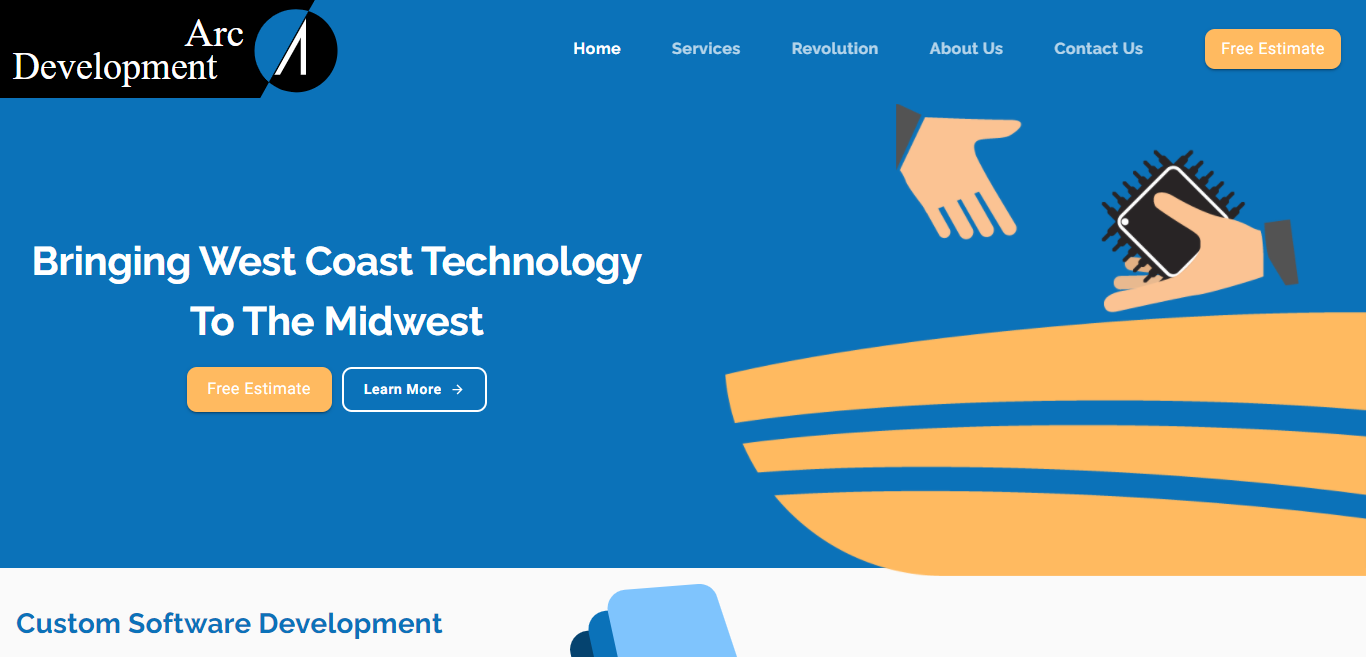
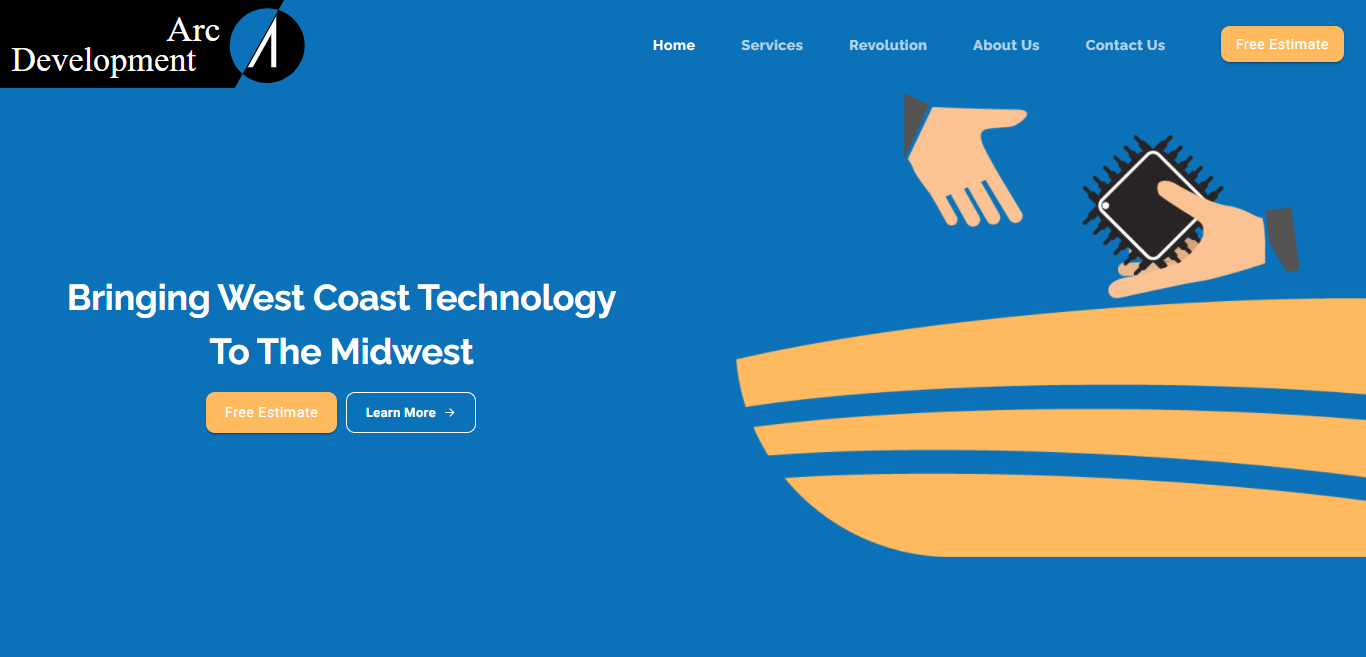
refactor the landing page

diff --git a/src/components/LandingPage.tsx b/src/components/LandingPage.tsx
@@ -97,10 +97,8 @@ const useStyles = makeStyles((theme: any) => ({
   },
   homeWrapper: {
     marginTop: "3rem",
-    marginBottom: "3rem",
     [theme.breakpoints.down("sm")]: {
       marginTop: "2rem",
-      marginBottom: "2rem",
     },
   },
   specialText: {
@@ -166,8 +164,6 @@ const useStyles = makeStyles((theme: any) => ({
   },
   infoWrapper: {
     height: "80vh",
-    marginBottom: "2rem",
-    marginTop: "2rem",
     backgroundImage: `url(${infoBackground})`,
     backgroundRepeat: "no-repeat",
     backgroundSize: "cover",
